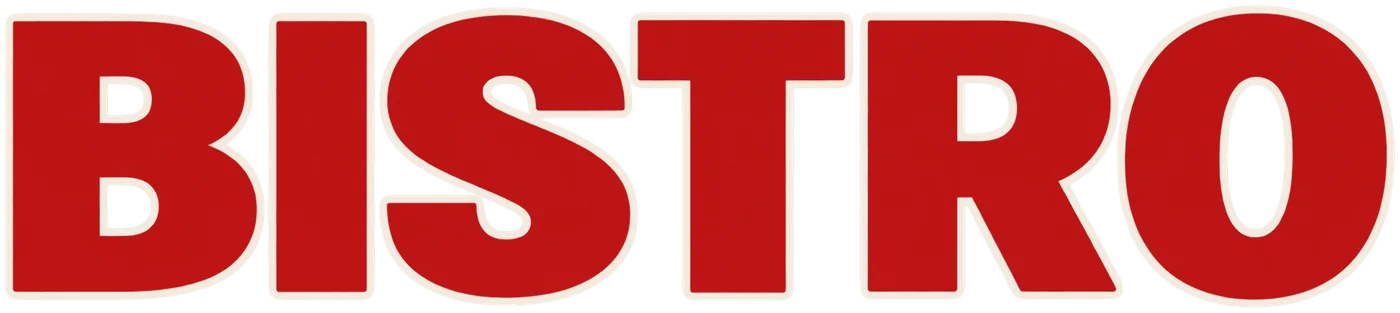
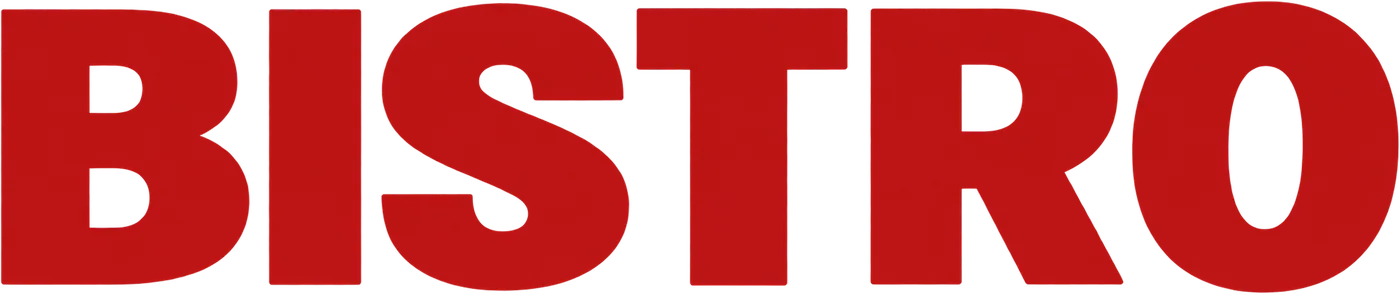
Hero: den vita konturen runt BISTRO tas bort
Beställt trots skälet till konturen: BISTROs röda står på 2,3–2,7:1
mot burgarens kött, som ordet ligger framför. DELEN'S och burgaren är
orörda, och deras filer är byte för byte desamma.

verktyg/lockup.mjs kör BISTRO med kontur 0. Bilden är 1995 × 419,
4,761:1, mot 2029 × 453 och 4,479:1 med konturen. Bokstäverna ska vara
lika stora som förut, så måtten räknas om ur bokstävernas 1991 px:
3,74 × 0,786 em på desktop, mot 3,81 × 0,851, och 1,08 burgarbredder
under 900 px, mot 1,1. Höjden i index.html är 294 i stället för 313.
Det går att lägga tillbaka konturen: måtten för det står vid kontur i
lockup.mjs.

Uppmätt vid 1490 px: bokstäverna är 644,8 px breda, mot 645,9 med
konturen, och mittpunkten är densamma, (737,6; 589,8) mot
(737,6; 589,9).

diff --git a/src/style.css b/src/style.css
@@ -1126,11 +1126,9 @@ input:focus-visible {
      DELEN'S  3,20 × 0,895 em
      BISTRO   1,80 × 0,378 em  = 3,74 × 0,786 i BISTROs egen em
 
-   BISTRO FICK SEDAN VIT KONTUR, och konturen räknas inte in i ytan —
-   den läggs utanpå bokstäverna, som ska vara lika stora som utan den.
-   Med konturen är bilden 2029 px bred för 1995 px bokstäver, 4,479:1:
-
-     BISTRO   1,83 × 0,408 em  = 3,81 × 0,851 i BISTROs egen em
+   BISTRO HADE EN TID VIT KONTUR (4,479:1, 3,81 × 0,851 em). Den togs
+   bort 2026-09-28 på beställning, och bokstäverna är lika stora som
+   med den: 1991 px bokstäver i 1995 px bild, alltså måtten ovan igen.
 
    (Första omgången, 4,01:1 och 3,56:1, gav 3,39 × 0,845 och
    1,55 × 0,436.)
@@ -1183,8 +1181,8 @@ input:focus-visible {
 }
 
 .hero__bistro .hero__ord {
-  width: 3.81em;
-  margin-block-start: calc(0.5em - 0.851em / 2);
+  width: 3.74em;
+  margin-block-start: calc(0.5em - 0.786em / 2);
 }
 
 /* Elementet är ett span inuti h1. Utan display: block blir det inline
@@ -1305,7 +1303,11 @@ input:focus-visible {
      Bilden dras upp dit med en negativ marginal i en flow-root-låda,
      och lådan krymper lika mycket — brödtexten under följer med upp i
      stället för att stå kvar under ett tomrum. Bildens höjd är
-     bredden delad med 4,479, dess proportion med konturen. */
+     bredden delad med 4,761, dess proportion.
+
+     1,08 OCH INTE 1,1: talet var bildens bredd när den hade vit
+     kontur. Konturen är borttagen och bilden smalare, och 1,08 ger
+     samma bokstäver som förut. */
   .hero__bistro {
     height: auto;
     margin-block-start: 0;
@@ -1313,8 +1315,8 @@ input:focus-visible {
   }
 
   .hero__bistro .hero__ord {
-    width: calc(var(--burgare-b) * 1.1);
-    margin-block-start: calc(var(--burgare-b) * -0.22 - var(--burgare-b) * 1.1 / 4.479 / 2);
+    width: calc(var(--burgare-b) * 1.08);
+    margin-block-start: calc(var(--burgare-b) * -0.22 - var(--burgare-b) * 1.08 / 4.761 / 2);
   }
 
   .hero__copy {

diff --git a/index.html b/index.html
@@ -176,7 +176,7 @@
                 sizes="(min-width: 1590px) 702px, 45vw"
                 alt="Bistro"
                 width="1400"
-                height="313"
+                height="294"
                 decoding="async"
               /></span>
           </h1>
